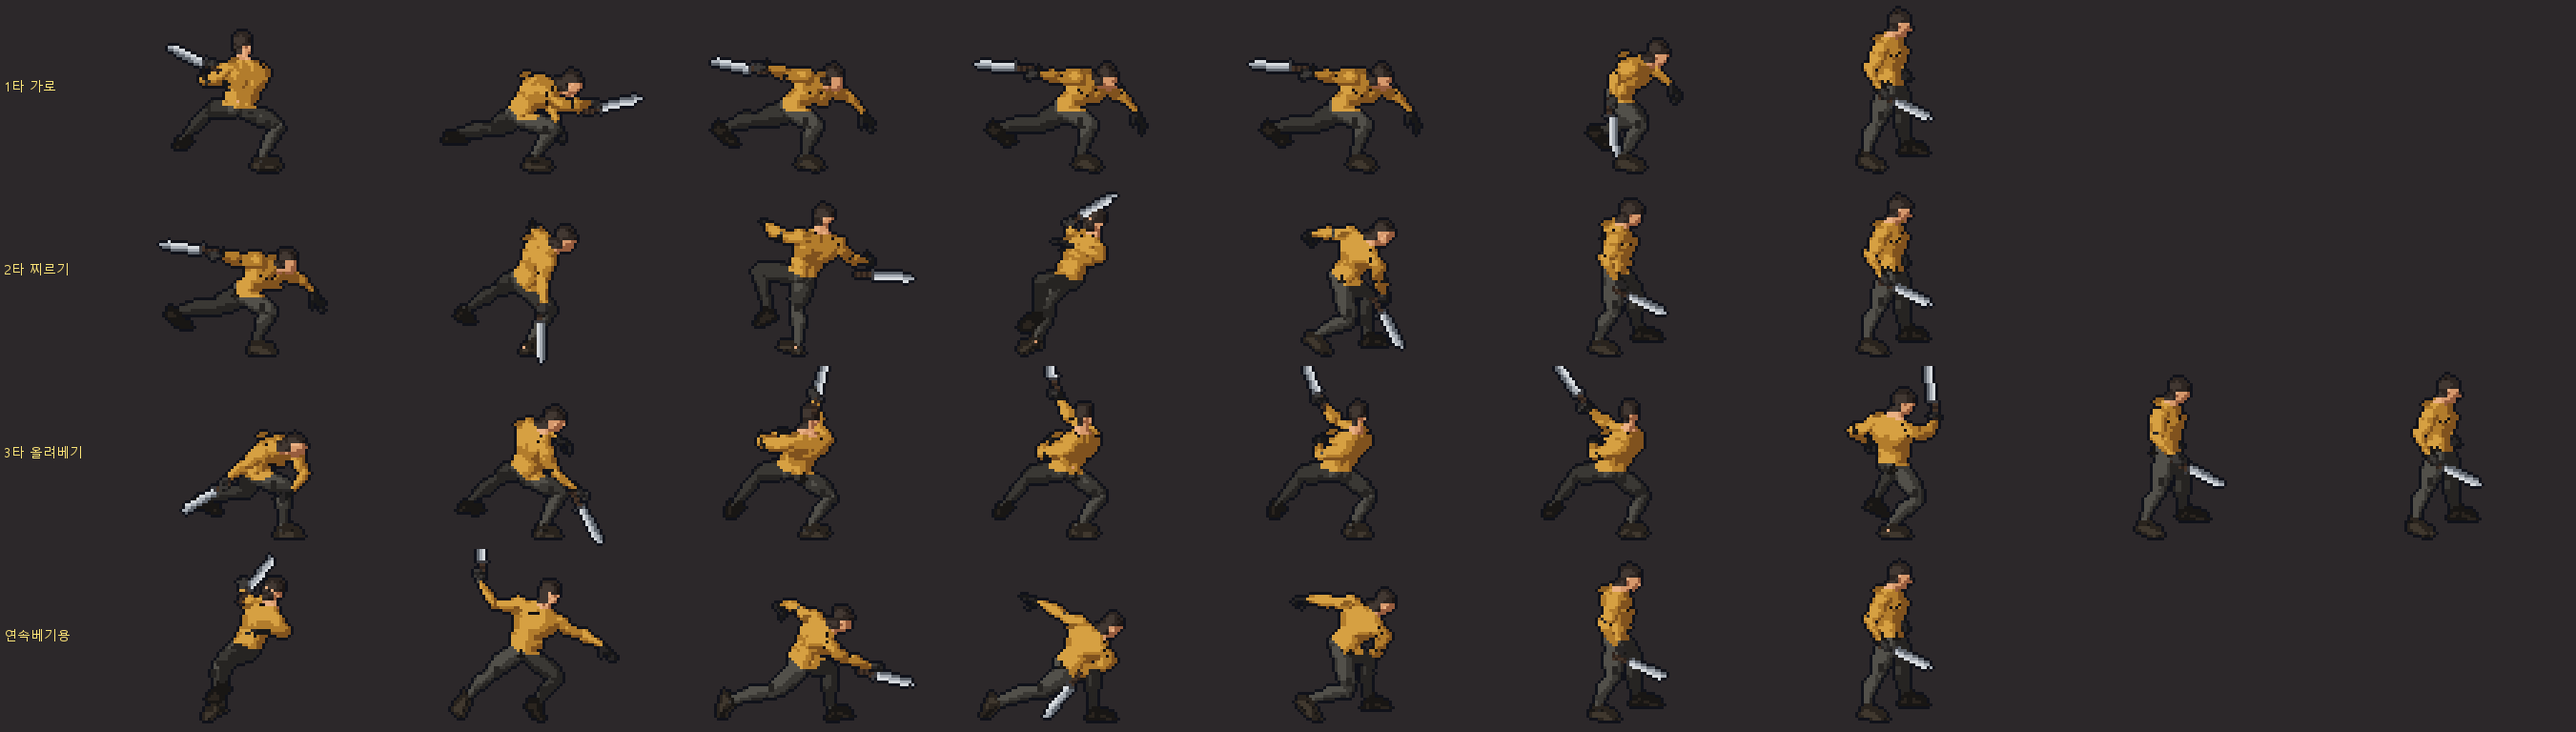
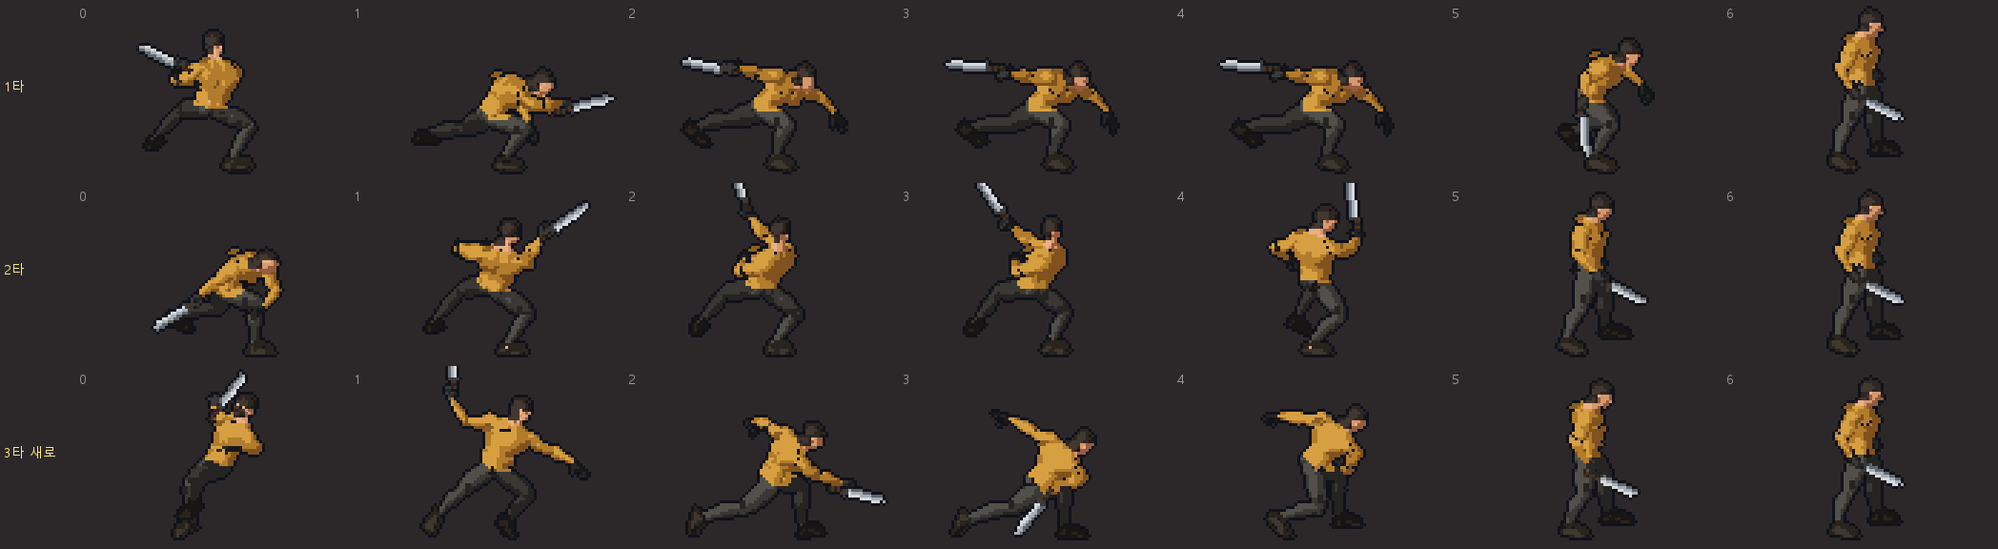
연타를 가로 베기 → 짧은 올려 베기 → 머리 위 내려치기로 되돌림, 달리기 3.8m/s

diff --git a/tools/blender/render_character.py b/tools/blender/render_character.py
@@ -31,15 +31,14 @@ PASSES = [
      ["idle=4", "sneak_idle=4", "walk=12", "sneak=12", "run=12", "hurt=3", "down=5", "pickup=4"],
      ["--shift-for", "down=16"]),
     (LIB2,
-     # Machete combo (2026-11-13 "3rd attack back to the earlier one" = the big rising cut):
-     # 1st a quick sweep (B, wind-up cut off), 2nd a quick thrust (C up to the stab, its end
-     # as the recovery), 3rd the big rising cut (A from its crouch on, all frames).
-     # finisher: the big overhead chop (the finisher of the pack's own Sword_Regular_Combo),
-     # only for the time-warp release that looses the flurry.
-     ["swing=Sword_Regular_B@2-13,Sword_Regular_B_Rec", "swing2=Sword_Regular_C@0-8,Sword_Regular_C@30-48",
-      "swing3=Sword_Regular_A@4-,Sword_Regular_A_Rec@7-23",
-      "finisher=Sword_Regular_Combo@31.5-34.5,Sword_Regular_Combo@37.6-41,Sword_Regular_Combo@51-72"],
-     ["swing=4,3", "swing2=4,3", "swing3=6,3", "finisher=2,2,3"],
+     # Machete combo (2026-11-13, the user's pick from the sheets: "back to this one"):
+     # 1st a quick sweep (B, wind-up cut off), 2nd a short rising cut (A from its crouch on,
+     # fewer frames), 3rd the overhead chop - the finisher of the pack's own
+     # Sword_Regular_Combo, so all three come from one animated combo. The time-warp
+     # release swings the 3rd hit too.
+     ["swing=Sword_Regular_B@2-13,Sword_Regular_B_Rec", "swing2=Sword_Regular_A@4-,Sword_Regular_A_Rec@7-23",
+      "swing3=Sword_Regular_Combo@31.5-34.5,Sword_Regular_Combo@37.6-41,Sword_Regular_Combo@51-72"],
+     ["swing=4,3", "swing2=4,3", "swing3=2,2,3"],
      []),
 ]
 

diff --git a/src/player.py b/src/player.py
@@ -23,7 +23,7 @@ PLAYER_HALF_SIZE = 11
 # as authored: a brisk walk and a careful sneak, both still natural, feet planted.
 WALK_SPEED_M = 2.0           # metres per second
 SNEAK_SPEED_M = 1.3
-RUN_SPEED_M = 4.8            # Shift held while moving
+RUN_SPEED_M = 3.8            # Shift held while moving (2026-11-13: 4.8 felt too fast)
 DASH_SPEED = 340
 DASH_DURATION = 0.14
 DASH_COOLDOWN = 0.45
@@ -138,13 +138,16 @@ class Player:
         if self.state in FREE_STATES:
             self.pick_up()
 
+    def finisher_swing(self):
+        return self.weapon.finisher or self.weapon.swings[-1]
+
     def start_finisher(self):
         """The time-warp release: the weapon's finisher, marked to loose a flurry."""
         if self.state not in FREE_STATES:
             return False
         self.attack()
         index = len(self.weapon.swings) - 1          # no combo continues after it
-        self.swing = weapon.MeleeAttack(self.weapon.finisher, (self.direction, 0), index)
+        self.swing = weapon.MeleeAttack(self.finisher_swing(), (self.direction, 0), index)
         self.swing.flurry = True
         return True
 
@@ -322,7 +325,7 @@ class Player:
     def draw_body(self):
         if self.charging:
             # The finisher's raised blade, held while the charge builds.
-            finisher = self.weapon.finisher
+            finisher = self.finisher_swing()
             contact = finisher.contact / finisher.duration
             self.draw_pose(finisher.sheet, contact * 0.8, contact)
             return

diff --git a/src/weapon.py b/src/weapon.py
@@ -24,19 +24,19 @@ Swing = namedtuple("Swing", "sheet duration contact damage reach depth arc push 
 
 Weapon = namedtuple("Weapon", "name swings combo_window sneak_multiplier finisher", defaults=(None,))
 # combo_window: seconds after a swing's recovery starts in which a click continues the combo;
-# finisher: the big blow the time-warp release swings (it looses the flurry, flurry.py).
+# finisher: the blow the time-warp release swings (it looses the flurry, flurry.py);
+# None means the combo's last swing.
 
 MACHETE = Weapon(
     name="마체테",
     swings=(
-        # 1st and 2nd: quick, light blows; 3rd: the big rising cut with a real wind-up.
+        # 1st and 2nd: quick, light blows; 3rd: the overhead chop with a real wind-up.
         Swing("swing", 0.46, 0.14, 2, 42, 20, pi / 3, 110, 0.72, False),    # quick sweep
-        Swing("swing2", 0.50, 0.20, 2, 44, 20, pi / 3, 110, 0.70, False),   # quick thrust
-        Swing("swing3", 0.66, 0.26, 6, 50, 24, pi / 3, 320, 0.76, True),    # big rising cut
+        Swing("swing2", 0.50, 0.16, 2, 46, 22, pi / 3, 110, 0.73, False),   # short rising cut
+        Swing("swing3", 0.68, 0.28, 6, 50, 24, pi / 3, 340, 0.74, True),    # overhead chop (combo finisher)
     ),
     combo_window=0.25,
     sneak_multiplier=3,
-    finisher=Swing("finisher", 0.68, 0.28, 6, 50, 24, pi / 3, 340, 0.74, True),   # overhead chop
 )
 
 IMPACT_TIME = 0.18

diff --git a/assets/characters/CHARACTER_WORKFLOW.md b/assets/characters/CHARACTER_WORKFLOW.md
@@ -130,9 +130,8 @@
 | walk | `Walk_Loop` | 12 | 2026-11-11 가볍게 뛰기(`Jog_Fwd_Loop`)를 잠깐 썼으나 실제로 약 6m/s 달리기 동작이라 걷기로 되돌림. 1.7m/s에서 원본의 1.7배 속도로 재생(2026-11-12 2.0m/s). 8→12칸으로 늘려 땅에 닿은 발이 덜 밀림 |
 | sneak | `Walk_Loop` 위에 `Crouch_Idle_Loop`를 30% 얹음(`Walk_Loop+Crouch_Idle_Loop*0.3`) | 12 | 2026-11-11 30%로 조정(처음 40%), 6→12칸. 섞을 때는 COMBINE(회전을 곱해 더함)을 써야 함. 단순 평균(REPLACE)은 다리가 뒤로 뒤집힘 |
 | swing (1타) | `Sword_Regular_B@2-13` 4칸 + 복귀 `Sword_Regular_B_Rec` 3칸 (두 번째 팩 UAL2) | 7 | 빠른 가로 베기(준비 동작 잘라냄). 맞는 칸 인덱스 1, `hold` 0.35. 2026-11-12 "첫 번째 동작을 가로 베기로" → 다시 1타 |
-| swing2 (2타) | `Sword_Regular_C@0-8` 4칸 + `@30-48` 3칸 | 7 | 찌르기: 뒤로 빼기 → 내리기 → 앞으로 찌르기. 맞는 칸 인덱스 2, `hold` 0.35 |
-| swing3 (3타) | `Sword_Regular_A@4-` 6칸 + 복귀 `Sword_Regular_A_Rec@7-23` 3칸 | 9 | 크게 올려 베기: 숙였다가 크게 베어 올림. 맞는 칸 인덱스 2, `hold` 0.25. 2026-11-13 "3번째 공격을 이전 것으로"(크게 올려 베기)로 되돌림 |
-| finisher (연속 베기 해제) | `Sword_Regular_Combo@31.5-34.5` 2칸 + `@37.6-41` 2칸 + `@51-72` 3칸 | 7 | 머리 위로 들었다 내려치기(동작 팩 3연타의 마무리). 우클릭을 떼면 이 동작과 함께 연속 베기가 나간다. 맞는 칸 인덱스 2, `hold` 0.3, `windup` [1, 1.8], `trail_from` 1 |
+| swing2 (2타) | `Sword_Regular_A@4-` 4칸 + 복귀 `Sword_Regular_A_Rec@7-23` 3칸 | 7 | 짧은 올려 베기: 숙인 자세에서 칼이 앞으로 올라감. 맞는 칸 인덱스 1, `hold` 0.35 |
+| swing3 (3타) | `Sword_Regular_Combo@31.5-34.5` 2칸 + `@37.6-41` 2칸 + `@51-72` 3칸 | 7 | 머리 위 내려치기(동작 팩 3연타의 마무리, 제자리). 2타가 끝난 칼을 든 자세에서 이어짐. 맞는 칸 인덱스 2, `hold` 0.3, `windup` [1, 1.8], `trail_from` 1. 우클릭 연속 베기 해제에도 씀. 2026-11-13 사용자가 이 시트 그림을 골라 "이때로 돌아가자" |
 | run | `Jog_Fwd_Loop` | 12 | 2026-11-12 뛰기. 원래 5.87m/s(한 바퀴 0.92초에 5.39m), 게임 4.8m/s에서 걸은 거리로 재생 |
 | sneak_idle | `Idle_Loop` 위에 `Crouch_Idle_Loop`를 40% 얹음 | 4 | Shift만 누르고 서 있을 때. 시트가 없는 캐릭터는 `sneak` 첫 칸으로 대신함(`character_look.FALLBACK`) |
 | hurt | `Hit_Chest` | 3 | |
@@ -300,3 +299,4 @@
 | 2026-11-13 | 사용자 지시 "3타 공격이 너무 다이내믹함, 1·2번과 유사하게" → (찌르기 이미지 확인) → "일단 가자" | 3타를 찌르기(`Sword_Regular_C@0-8` + 복귀)로, 크게 내려치기는 새 시트 `finisher`로 옮겨 연속 베기 해제에만 씀. 점검: ① 1·2·3타 크기와 속도가 비슷 ② 찌르기 맞는 칸에서 칼이 앞 ③ 연속 베기 해제는 여전히 크게 내려침. 미리보기 `previews/combo_sheets.png` |
 | 2026-11-13 | 사용자 지시 "이전 것으로 하자 그냥" → "3번째 공격을 이전 것으로 하자"(크게 올려 베기 선택) | 찌르기 커밋을 되돌렸다가, 크게 올려 베기를 3타로 하려고 연타를 1타 가로 베기 → 2타 찌르기 → 3타 크게 올려 베기로(2타가 짧은 올려 베기라 겹치지 않게). 크게 내려치기는 `finisher` 시트로 연속 베기 해제 전용. 미리보기 `previews/combo_sheets.png` |
 | 2026-11-13 | 3단계 "피폭체 시안을 게임에" | 게임 속 피폭체를 예전 84×58 시트에서 `assets/characters/infected/`(SheetLook)로 교체. `look.json`: 걷기 보폭 1.35m(Zombie_Walk_Fwd_Loop, 원래 1.01m/s → 게임 1.19m/s), 할퀴기 맞는 칸 3. 할퀴기는 한 시트로 예고("!", 0.55초) → 할퀴기(0.18초) → 복귀(0.72초). 맞으면 hurt, 기절은 hurt 마지막 칸, 죽으면 down(처음 서 있는 부분 35%를 건너뛰어 맞자마자 쓰러짐, 0.9초, 끝에서 깜빡임). 점검: ① 걷기 다리가 이동과 맞음(보폭 측정값) ② "!" 동안 팔을 들어 올림 ③ 할퀴는 칸에서 팔이 앞으로 ④ 죽을 때 서 있지 않고 바로 쓰러짐. 게임 화면 `previews/infected_office_ingame.png` |
+| 2026-11-13 | 사용자가 시트 그림을 보여 주며 "뛰는 게 너무 빠르고, 공격 동작이 이때로 돌아가자" | 연타를 가로 베기 → 짧은 올려 베기 → 머리 위 내려치기로 되돌리고 `finisher` 시트를 지움(연속 베기 해제는 3타). 다시 그린 시트가 그때 그림과 픽셀 단위로 같음을 확인. 미리보기 `previews/combo_sheets.png` |

diff --git a/README.md b/README.md
@@ -16,7 +16,7 @@ python -m pip install -r requirements.txt
 python src/main.py
 ```
 
-`A/D`로 좌우 이동하고 `W/S`로 바닥 통로 안에서 위아래로 움직입니다. 위아래로만 이동하면 마지막으로 바라본 좌우 방향을 유지합니다. `Shift`를 누른 채 이동하면 달리고(초속 4.8m), `Ctrl`을 누른 채 이동하면 몸을 낮춰 조용히 걷습니다(은신, 초속 1.3m). 걷기는 초속 2.0m입니다. 방공호 오른쪽 출입문에서 `E`를 눌러 지상으로 이동합니다. 지상 오른쪽 끝의 초록 출구에서 `E`를 누르면 구간이 끝납니다. 도착 후 `R`로 다시 시작하고, `Esc`로 종료합니다.
+`A/D`로 좌우 이동하고 `W/S`로 바닥 통로 안에서 위아래로 움직입니다. 위아래로만 이동하면 마지막으로 바라본 좌우 방향을 유지합니다. `Shift`를 누른 채 이동하면 달리고(초속 3.8m), `Ctrl`을 누른 채 이동하면 몸을 낮춰 조용히 걷습니다(은신, 초속 1.3m). 걷기는 초속 2.0m입니다. 방공호 오른쪽 출입문에서 `E`를 눌러 지상으로 이동합니다. 지상 오른쪽 끝의 초록 출구에서 `E`를 누르면 구간이 끝납니다. 도착 후 `R`로 다시 시작하고, `Esc`로 종료합니다.
 
 게임에서 `F1`을 누르면 설정이 열리고 플레이가 일시 정지됩니다. 탐색 중과 전투 중 모두 열 수 있습니다. `↑`와 `↓`로 항목을 고르고 `←`와 `→`로 바꾸며, `R`은 고른 항목을 기본값으로 되돌립니다. `F1` 또는 `Esc`로 게임을 재개합니다. 설정은 게임을 종료할 때까지 적용됩니다.
 
@@ -31,7 +31,7 @@ python src/main.py
 
 피폭체와는 실시간으로 싸웁니다(2026-11-12 턴제에서 전환, [PRD](PRD.md) v3.0).
 
-- `좌클릭`: 마체테로 벱니다. 휘두르는 중에 다시 누르면 가로 베기 → 찌르기 → 크게 올려 베기 3연타로 이어집니다. 1·2타는 빠르고 가볍고, 3타는 숙였다가 크게 베어 올려 가장 셉니다(2·2·6).
+- `좌클릭`: 마체테로 벱니다. 휘두르는 중에 다시 누르면 가로 베기 → 올려 베기 → 머리 위 내려치기 3연타로 이어집니다. 1·2타는 빠르고 가볍고, 3타는 칼을 들어 올렸다가 내려쳐 가장 셉니다(2·2·6).
 - 피폭체 머리 위에 `!`가 뜨면 곧 할퀴기가 옵니다. `Space` 대시 중에는 맞지 않으니 그 순간 피하세요. 맞으면 체력이 2 줄고 뒤로 밀립니다.
 - **변이 가속(우클릭):** 우클릭을 누르는 동안 주변 시간이 10% 속도로 느려지고, 주인공은 제자리에서 기를 모읍니다(0.3·0.8·1.4초에 1·2·3단). 떼면 내려치기와 함께 앞쪽에 연속 베기가 그어졌다가 하나씩 터집니다(1단 4번·2m, 2단 7번·3m, 3단 12번·4m). 모으는 중에는 좌클릭이 막히고, Space로 공격 없이 풀며 피할 수 있습니다. 누르는 동안 **피폭 수치**가 초당 15%씩 오르고, 수치가 높을수록 연속 베기 피해가 커집니다(30% 이상 1.3배, 60% 이상 1.6배, 90% 이상 2배). 100%에 닿으면 가속이 강제로 풀리고 체력 4를 잃으며 수치가 70%로 내려갑니다. 피폭 막대는 화면 위 체력 아래에 있습니다. 30% 이상이면 주인공 주변(약 4m)만 맑고 바깥이 어두워지며, 60% 이상이면 3m로 좁아지고 초록빛으로 흐려지고, 90% 이상이면 2.5m로 좁아지며 가장자리가 붉게 깜빡입니다. 90% 이상에서는 2초마다 체력 1이 깎이고, 쓰지 않으면 1.5초 뒤부터 초당 2%씩 내려갑니다.
 - **완벽 회피:** 할퀴기가 들어오기 직전(0.2초 안)에 대시하면 하얀 고리와 함께 잠깐 느린 화면이 되고, 1.2초 안에 맞힌 다음 공격이 **반격**(피해 2배)이 됩니다. 반격 시간에 공격하면 피한 피폭체에게 자동으로 파고들며(최대 2m) 벱니다.

diff --git a/docs/DEVLOG.md b/docs/DEVLOG.md
@@ -123,3 +123,4 @@
 - **3타 크게 올려 베기:** "3번째 공격을 이전 것으로"에 어느 것인지 물어 "크게 올려 베기"로. 2타가 짧은 올려 베기라 겹쳐서 연타를 가로 베기 → 찌르기 → 크게 올려 베기로 맞추고, 크게 내려치기는 연속 베기 해제 전용으로 남겼다.
 - **2단계 피폭 게이지와 시야:** "시야가 흐려지면 근접 전투가 힘들지 않나"는 지적에 주인공 주변은 늘 맑고 바깥만 흐리는 방식으로. 흰 마스크 한 장을 키우고 색을 입혀 단계별로 4m → 3m(초록 아지랑이) → 2.5m(붉은 맥박). 처음엔 마스크 그림 끝에서 경계선이 생길 수 있어, 맑은 원을 작게 그린 큰 마스크로 바꿔 화면을 늘 덮게 했다. 피폭 막대는 위 HUD 체력 아래.
 - **3단계 피폭체 게임 적용:** 게임 속 피폭체를 시안 1(막 변한 직장인) 시트로 바꿨다. 걷기는 걸은 거리로 재생(보폭 1.35m 측정), 할퀴기는 예고 → 할퀴기 → 복귀를 한 시트로, 죽을 때는 쓰러지는 동작. 처음엔 죽은 뒤 0.3초쯤 서 있다가 쓰러져서 동작의 서 있는 앞부분을 건너뛰게 했다.
+- **연타를 그때로, 달리기 낮춤:** 사용자가 고른 시트 그림(가로 베기 → 짧은 올려 베기 → 머리 위 내려치기)으로 되돌리고, 다시 그린 시트가 그 그림과 픽셀 단위로 같은지 확인했다. 연속 베기 해제도 3타를 쓴다. 달리기는 4.8 → 3.8m/s.

diff --git a/PLAN.md b/PLAN.md
@@ -149,6 +149,8 @@
 
 - **2026-11-13 · 3타 찌르기 → 되돌림** — "3타 공격이 너무 다이내믹함, 1·2번과 유사하게" → "찌르기 이미지?" → "일단 가자"(3타 찌르기, 내려치기는 연속 베기 전용으로 바꿈) → 결과를 보고 **"이전 것으로 하자 그냥."** 커밋을 되돌려 3타는 다시 연타 마무리 내려치기(제자리), 연속 베기 해제도 같은 동작.
 
+- **2026-11-13 · 연타를 그때로, 달리기 낮춤** — (시트 그림을 보여 주며) "뛰는 게 너무 빠르고, 공격 동작이 이때로 돌아가자." 가로 베기 → 짧은 올려 베기 → 머리 위 내려치기, 달리기 4.8 → 3.8m/s. PRD v3.16.
+
 - **2026-11-13 · 피폭체 시안 게임 적용 (3단계)** — "3단계 진행." 게임 속 피폭체를 시안 1 시트로 교체(걷기·예고·할퀴기·맞기·쓰러짐).
 
 - **2026-11-13 · 피폭 게이지와 시야 (2단계)** — "시야 제한이 되면 근접 전투는 좀 힘들지 않나?"에 가운데는 맑게/바깥만 흐리게(추천)와 시야 대신 몸 디버프 두 안 → **"가운데 맑게."** 피폭 막대와 단계별 시야(4m → 3m+초록 → 2.5m+붉은 맥박). PRD v3.14.
